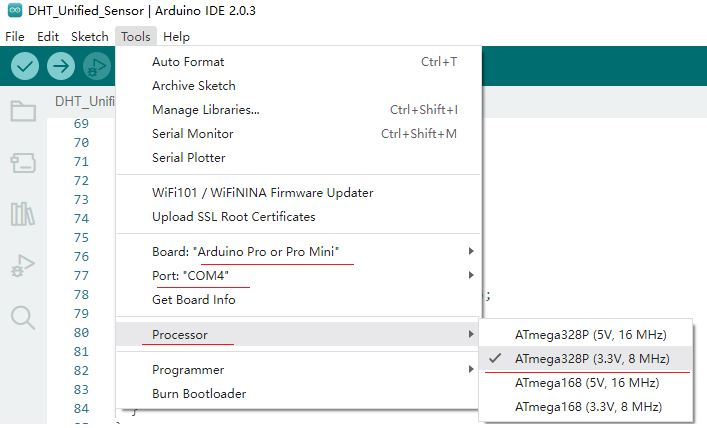
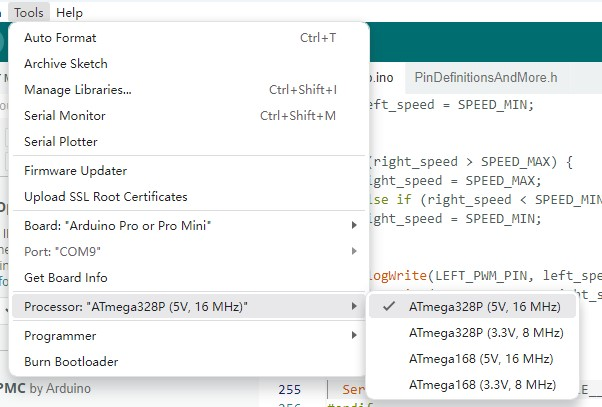
mini

diff --git a/course/ArduinoMiniPro初步.md b/course/ArduinoMiniPro初步.md
@@ -77,13 +77,18 @@ FTD232和Arduino的连接方式
 
 ### 2.2 Arduino配置
 
-设定开发板的类型和同学端口
+设定开发板的类型和串口
 
 1. Board:Auduino Pro or Pro Mini
 2. Port:"COM4"
-3. Process:ATmega328P(**3.3V**,8Mhz)
+3. **芯片**： Process:ATmega328P(**5V**,8Mhz)
+   or 
+   Process:ATmega328P(**3.3V**,8Mhz)
+
+**注意**： 如果芯片选择错误，代码运行异常
 
 ![](img/ArduinoProMini/ArduinoProMini_Type.jpg)
+
 
 ### 2.3 测试烧录程序
 
